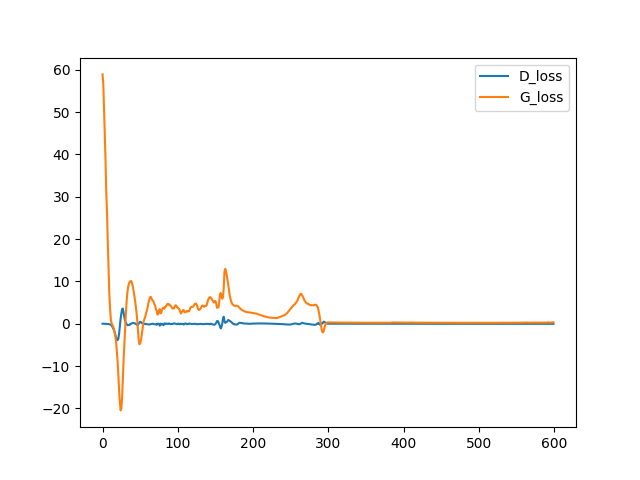
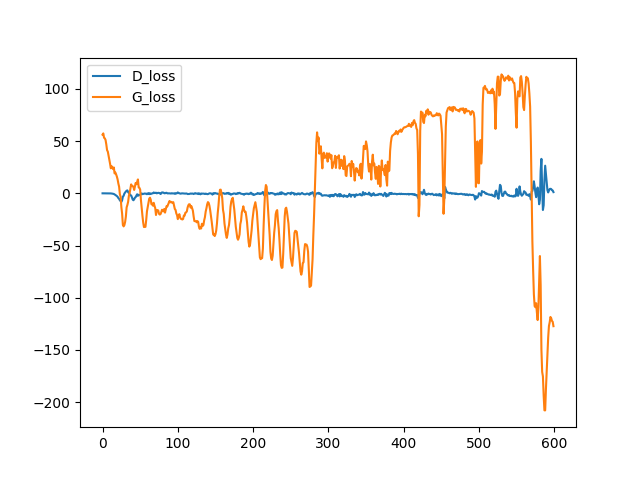
mask added to moons

diff --git a/conditional_counteRGAN/moons/eval_utils.py b/conditional_counteRGAN/moons/eval_utils.py
@@ -25,8 +25,13 @@ def evaluate_classifier(clf, X_test, y_test, config):
     df.to_csv(save_path)
     print(f"Classifier accuracy: {acc:.4f}, confusion matrix saved to {save_path}")
 
+# eval_utils.py (modified parts)
 
-def compute_metrics_per_target(generator, classifier, X, y, config):
+def compute_metrics_per_target(generator, classifier, X, y, config, mask=None):
+    """
+    mask: None (means generator will be called without mask - fallback),
+          or a (input_dim,) or (bs, input_dim) binary float tensor or numpy array.
+    """
     device = config['cuda']
     batch_size = config['batch_size']
 
@@ -50,32 +55,45 @@ def compute_metrics_per_target(generator, classifier, X, y, config):
                 x_batch = x_batch.to(device)
                 y_batch = y_batch.to(device)
 
-                mask = (y_batch != target)
-                if mask.sum() == 0:
+                mask_samples = (y_batch != target)
+                if mask_samples.sum() == 0:
                     continue
-                x = x_batch[mask]
+                x = x_batch[mask_samples]
                 if x.size(0) == 0:
                     continue
 
                 bs = x.size(0)
                 target_vec = torch.full((bs,), target, device=device, dtype=torch.long)
-                target_onehot = F.one_hot(target_vec, num_classes).float()
+                target_onehot = F.one_hot(target_vec, num_classes).float().to(device)
 
-                residual = generator(x, target_onehot)
+                # prepare mask: if mask is None, pass None; if mask is array, expand to bs
+                if mask is None:
+                    mask_tensor = None
+                else:
+                    # mask can be numpy 1D or torch 1D or shape (input_dim,)
+                    m = torch.tensor(mask, dtype=torch.float32, device=device)
+                    if m.dim() == 1:
+                        mask_tensor = m.unsqueeze(0).expand(bs, -1)
+                    else:
+                        mask_tensor = m[:bs].float()  # if provided per-sample
+                residual = generator(x, target_onehot, mask=mask_tensor)
                 cf = x + residual
 
                 cf_logits = classifier(cf)
                 cf_preds = cf_logits.argmax(dim=1)
                 flip_rate = (cf_preds == target_vec).float().mean().item()
 
-                # softmax probabilities
                 probs_orig = F.softmax(classifier(x), dim=1)
                 probs_cf = F.softmax(cf_logits, dim=1)
                 p_orig = probs_orig[torch.arange(bs), target_vec]
                 p_cf = probs_cf[torch.arange(bs), target_vec]
 
                 pred_gain = (p_cf - p_orig).mean().item()
-                actionability = torch.mean(torch.abs(residual)).item()
+                # actionability measured only on masked residual (if mask available)
+                if mask_tensor is not None:
+                    actionability = torch.mean(torch.abs(residual * mask_tensor)).item()
+                else:
+                    actionability = torch.mean(torch.abs(residual)).item()
 
                 flips_per_batch.append(flip_rate)
                 pred_gain_per_batch.append(pred_gain)
@@ -88,11 +106,11 @@ def compute_metrics_per_target(generator, classifier, X, y, config):
                 "avg_actionability": float(np.mean(act_per_batch)) if act_per_batch else np.nan
             })
 
-
     return pd.DataFrame(results)
 
+
 def plot_decision_boundaries_and_cfs(generator, classifier, X, y, config,
-                                     n_cf_samples=20, save_prefix="decision_boundaries_cfs"):
+                                     mask=None, n_cf_samples=20, save_prefix="decision_boundaries_cfs"):
     device = config['cuda']
     num_classes = len(np.unique(y))
 
@@ -108,7 +126,10 @@ def plot_decision_boundaries_and_cfs(generator, classifier, X, y, config,
         Z = classifier(grid_t).argmax(1).cpu().numpy()
     Z = Z.reshape(xx.shape)
 
-    # Define grouped plots
+    # folder ready
+    out_dir = config['out_dir']
+    os.makedirs(out_dir, exist_ok=True)
+
     groups = [
         {"pairs": [(0, 1), (0, 2)], "title": "Counterfactuals from Class 0"},
         {"pairs": [(1, 0), (1, 2)], "title": "Counterfactuals from Class 1"},
@@ -118,34 +139,39 @@ def plot_decision_boundaries_and_cfs(generator, classifier, X, y, config,
 
     for g_idx, group in enumerate(groups):
         plt.figure(figsize=(8, 6))
-        # decision boundaries
         plt.contourf(xx, yy, Z, alpha=0.3, cmap="coolwarm")
-
-        # original data
         plt.scatter(X[:, 0], X[:, 1], c=y, cmap="coolwarm", edgecolor="k", s=20, alpha=0.6)
 
         for (src, tgt) in group["pairs"]:
             pair_idx = [(0, 1), (1, 0), (1, 2), (2, 1), (2, 0), (0, 2)].index((src, tgt))
             color = colors[pair_idx]
 
-            mask = (y == src)
-            if mask.sum() == 0:
+            mask_idx = (y == src)
+            if mask_idx.sum() == 0:
                 continue
-            idx = np.random.choice(np.where(mask)[0], size=min(n_cf_samples, mask.sum()), replace=False)
+            idx = np.random.choice(np.where(mask_idx)[0], size=min(n_cf_samples, mask_idx.sum()), replace=False)
 
             x_src = torch.tensor(X[idx], dtype=torch.float32).to(device)
             tgt_vec = torch.full((x_src.size(0),), tgt, device=device, dtype=torch.long)
-            tgt_onehot = F.one_hot(tgt_vec, num_classes).float()
+            tgt_onehot = F.one_hot(tgt_vec, num_classes).float().to(device)
 
+            # prepare mask for these samples
+            if mask is None:
+                mask_tensor = None
+            else:
+                m = torch.tensor(mask, dtype=torch.float32, device=device)
+                if m.dim() == 1:
+                    mask_tensor = m.unsqueeze(0).expand(x_src.size(0), -1)
+                else:
+                    mask_tensor = m[:x_src.size(0)]
             with torch.no_grad():
-                residual = generator(x_src, tgt_onehot)
+                residual = generator(x_src, tgt_onehot, mask=mask_tensor)
                 x_cf = x_src + residual
 
             x_src_np = x_src.cpu().numpy()
             x_cf_np = x_cf.cpu().numpy()
 
-            plt.scatter(x_cf_np[:, 0], x_cf_np[:, 1], c=color, marker=None,
-                        label=f"{src}->{tgt}", alpha=0.9)
+            plt.scatter(x_cf_np[:, 0], x_cf_np[:, 1], c=color, label=f"{src}->{tgt}", alpha=0.9)
 
             # arrows
             for xs, xc in zip(x_src_np, x_cf_np):
@@ -156,8 +182,7 @@ def plot_decision_boundaries_and_cfs(generator, classifier, X, y, config,
         plt.ylabel("y")
         plt.title(group["title"])
         plt.legend()
-        os.makedirs(config["out_dir"], exist_ok=True)
-        save_path = os.path.join(config["out_dir"], f"{save_prefix}_group{g_idx+1}.png")
+        save_path = os.path.join(out_dir, f"{save_prefix}_group{g_idx+1}.png")
         plt.savefig(save_path)
         plt.close()
         print(f"Saved plot: {save_path}")
@@ -168,9 +193,41 @@ def save_metrics(df, save_path):
     print(f"Saved metrics to {save_path}")
 
 def evaluate_pipeline(generator, classifier, X_test, y_test, config):
-    out = config['out_dir']
+    base_out = config['out_dir']
+
+    # Define masks (as numpy 1D arrays) - input_dim assumed 2
+    masks = {
+        "both": np.array([1, 1], dtype=np.float32),
+        "none": np.array([0, 0], dtype=np.float32),
+        "x_only": np.array([1, 0], dtype=np.float32),
+        "y_only": np.array([0, 1], dtype=np.float32)
+    }
+
+    # first global classifier metrics
     evaluate_classifier(classifier, X_test, y_test, config)
-    metrics_df = compute_metrics_per_target(generator, classifier, X_test, y_test, config)
-    plot_decision_boundaries_and_cfs(generator, classifier, X_test, y_test, config)
-    save_metrics(metrics_df, os.path.join(out, "metrics.csv"))
-    return metrics_df
+
+    all_metrics = {}
+    for name, mask in masks.items():
+        print(f"Evaluating mask: {name}")
+        out_dir = os.path.join(base_out, f"mask_{name}")
+        cfg = dict(config)  # shallow copy
+        cfg['out_dir'] = out_dir
+        os.makedirs(out_dir, exist_ok=True)
+
+        metrics_df = compute_metrics_per_target(generator, classifier, X_test, y_test, cfg, mask=mask)
+        save_metrics(metrics_df, os.path.join(out_dir, "metrics.csv"))
+
+        plot_decision_boundaries_and_cfs(generator, classifier, X_test, y_test, cfg,
+                                         mask=mask, n_cf_samples=30,
+                                         save_prefix=f"decision_boundaries_cfs_{name}")
+        all_metrics[name] = metrics_df
+
+    # Optionally concatenate and save a summary table with masks as columns
+    summary_rows = []
+    for name, df in all_metrics.items():
+        df2 = df.copy()
+        df2['mask'] = name
+        summary_rows.append(df2)
+    summary_df = pd.concat(summary_rows, ignore_index=True)
+    save_metrics(summary_df, os.path.join(base_out, "metrics_all_masks.csv"))
+    return summary_df

diff --git a/conditional_counteRGAN/moons/trainer.py b/conditional_counteRGAN/moons/trainer.py
@@ -58,19 +58,19 @@ def train_countergan(config, X_train, y_train, clf_model):
         for x_batch, y_batch in loader:
             x_batch, y_batch = x_batch.to(device), y_batch.to(device)
             bs = x_batch.size(0)
+            num_features = x_batch.size(1)
 
+            # target class (ensure different from original)
             target_y = torch.randint(0, num_classes, (bs,), device=device)
             target_y = torch.where(target_y == y_batch, (target_y + 1) % num_classes, target_y)
-            target_onehot = F.one_hot(target_y, num_classes).float()
+            target_onehot = F.one_hot(target_y, num_classes).float().to(device)
 
-            residual = G(x_batch, target_onehot)
+            # sample binary mask correctly: 0 or 1 per feature
+            # Use uniform p=0.5 or make configurable in config
+            modifiable_features = torch.randint(0, 2, (bs, num_features), device=device).float()
+
+            residual = G(x_batch, target_onehot, mask=modifiable_features)
             x_cf = x_batch + residual
-            # if batch_inspected < 1:
-            #     print(f"Example originals (first 5):\n{x_batch[:5].detach().cpu().numpy()}")
-            #     print(f"Example residuals (first 5):\n{residual[:5].detach().cpu().numpy()}")
-            #     print(f"Example counterfactuals (first 5):\n{x_cf[:5].detach().cpu().numpy()}")
-            #     batch_inspected += 1
-
 
             # D update
             D_real = D(x_batch)
@@ -83,6 +83,8 @@ def train_countergan(config, X_train, y_train, clf_model):
             G_adv_loss = -D_fake_forG.mean()
             clf_preds = clf_model(x_cf)
             G_cls_loss = F.cross_entropy(clf_preds, target_y)
+
+            # leak_penalty = torch.mean(torch.norm(raw_residual * (1-mask), p=1, dim=1)) # if want to penalize changes on unmodifiable features
             G_reg_loss = torch.mean(torch.norm(residual, p=1, dim=1))
 
             G_loss = (

diff --git a/conditional_counteRGAN/moons/models/generator.py b/conditional_counteRGAN/moons/models/generator.py
@@ -14,7 +14,9 @@ class ResidualGenerator(nn.Module):
             nn.Linear(hidden_dim//2, input_dim)
         )
 
-    def forward(self, x, target):
-        x_cat = torch.cat([x, target], dim=1)
-        residual = self.net(x_cat)
-        return residual
+    def forward(self, x, target_onehot, mask=None):
+        h = torch.cat([x, target_onehot], dim=1)
+        raw_residual = self.net(h)
+        masked_residual = raw_residual if mask is None else raw_residual * mask
+        return masked_residual
+

diff --git a/conditional_counteRGAN/moons/main.py b/conditional_counteRGAN/moons/main.py
@@ -3,15 +3,9 @@ from config import config
 from data_utils import load_and_preprocess
 from trainer import train_classifier, train_countergan
 from eval_utils import evaluate_pipeline
-
-#!/usr/bin/env python3
 import os
 import torch
-from config import config
-from data_utils import load_and_preprocess
 from models.nn_classifier import NNClassifier
-from trainer import train_countergan
-from eval_utils import evaluate_pipeline
 import torch.optim as optim
 import torch.nn as nn
 
